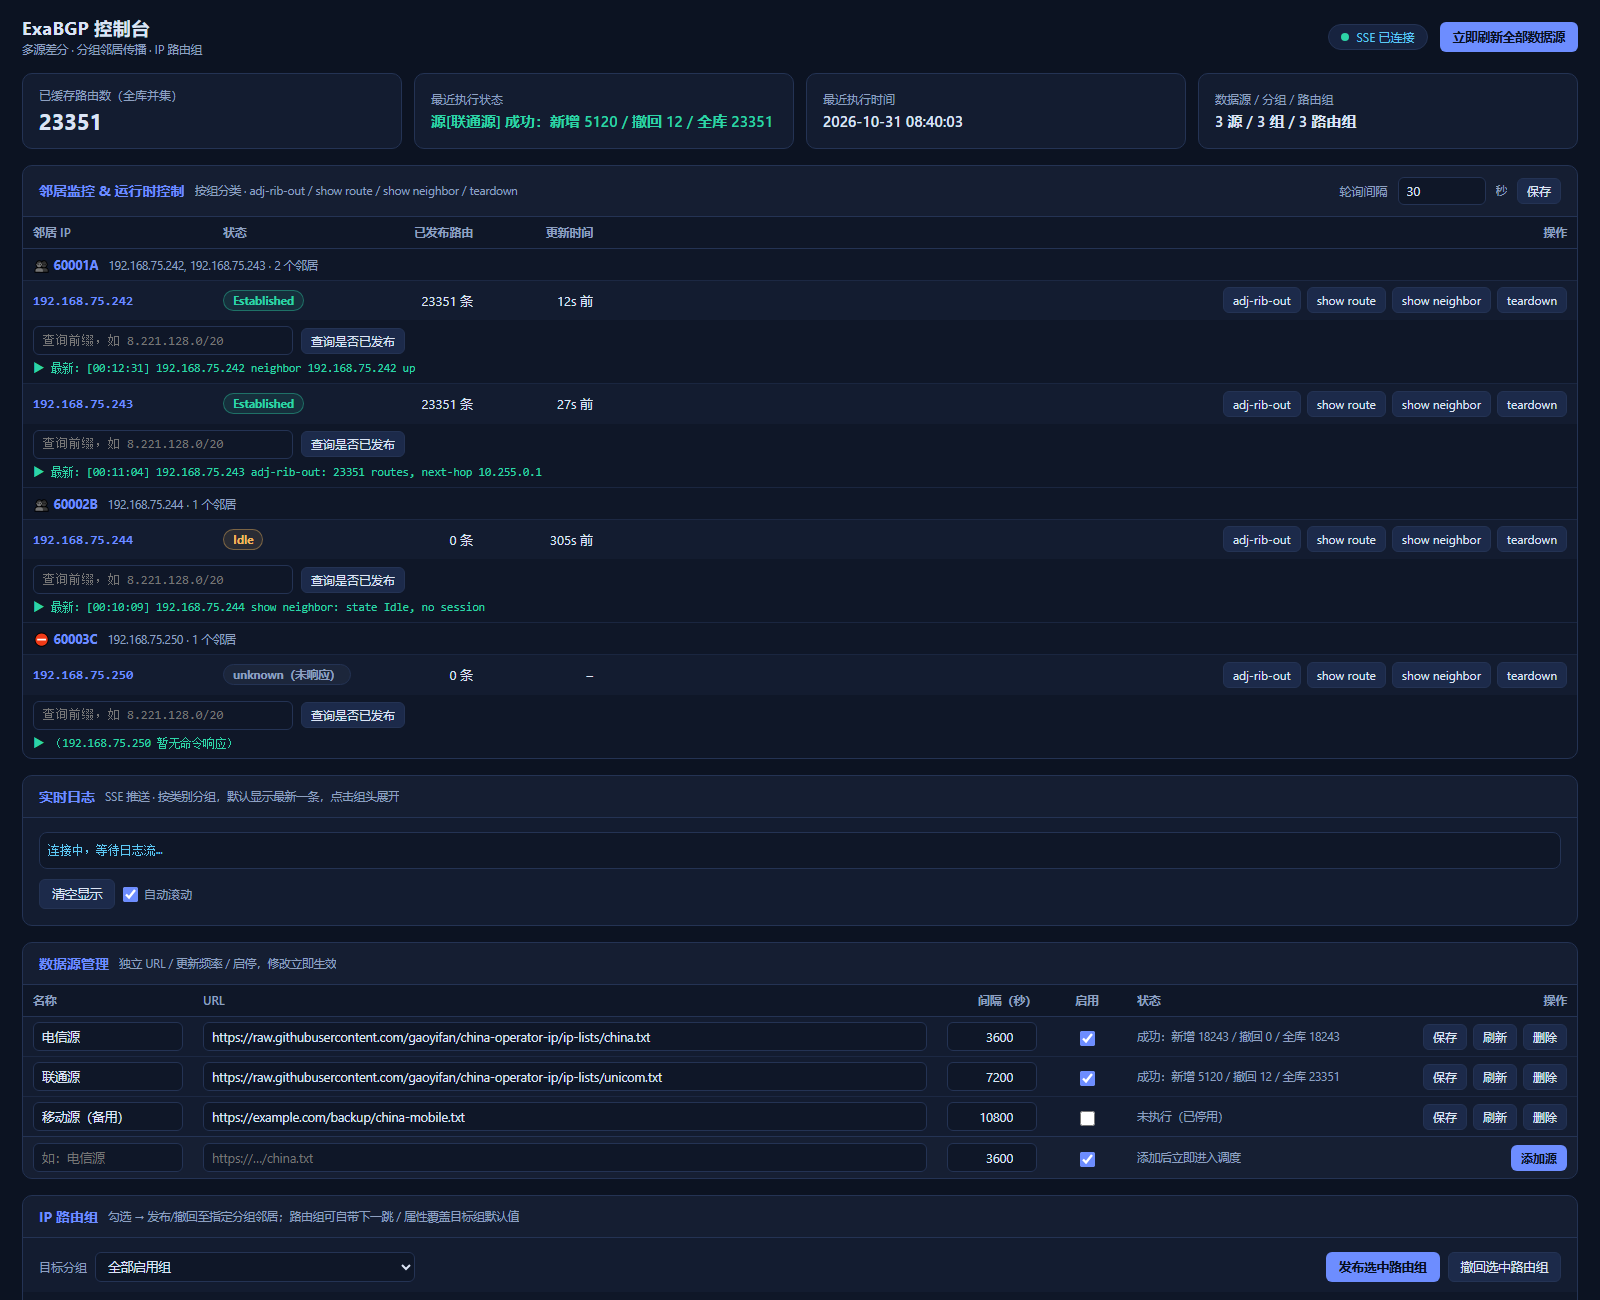
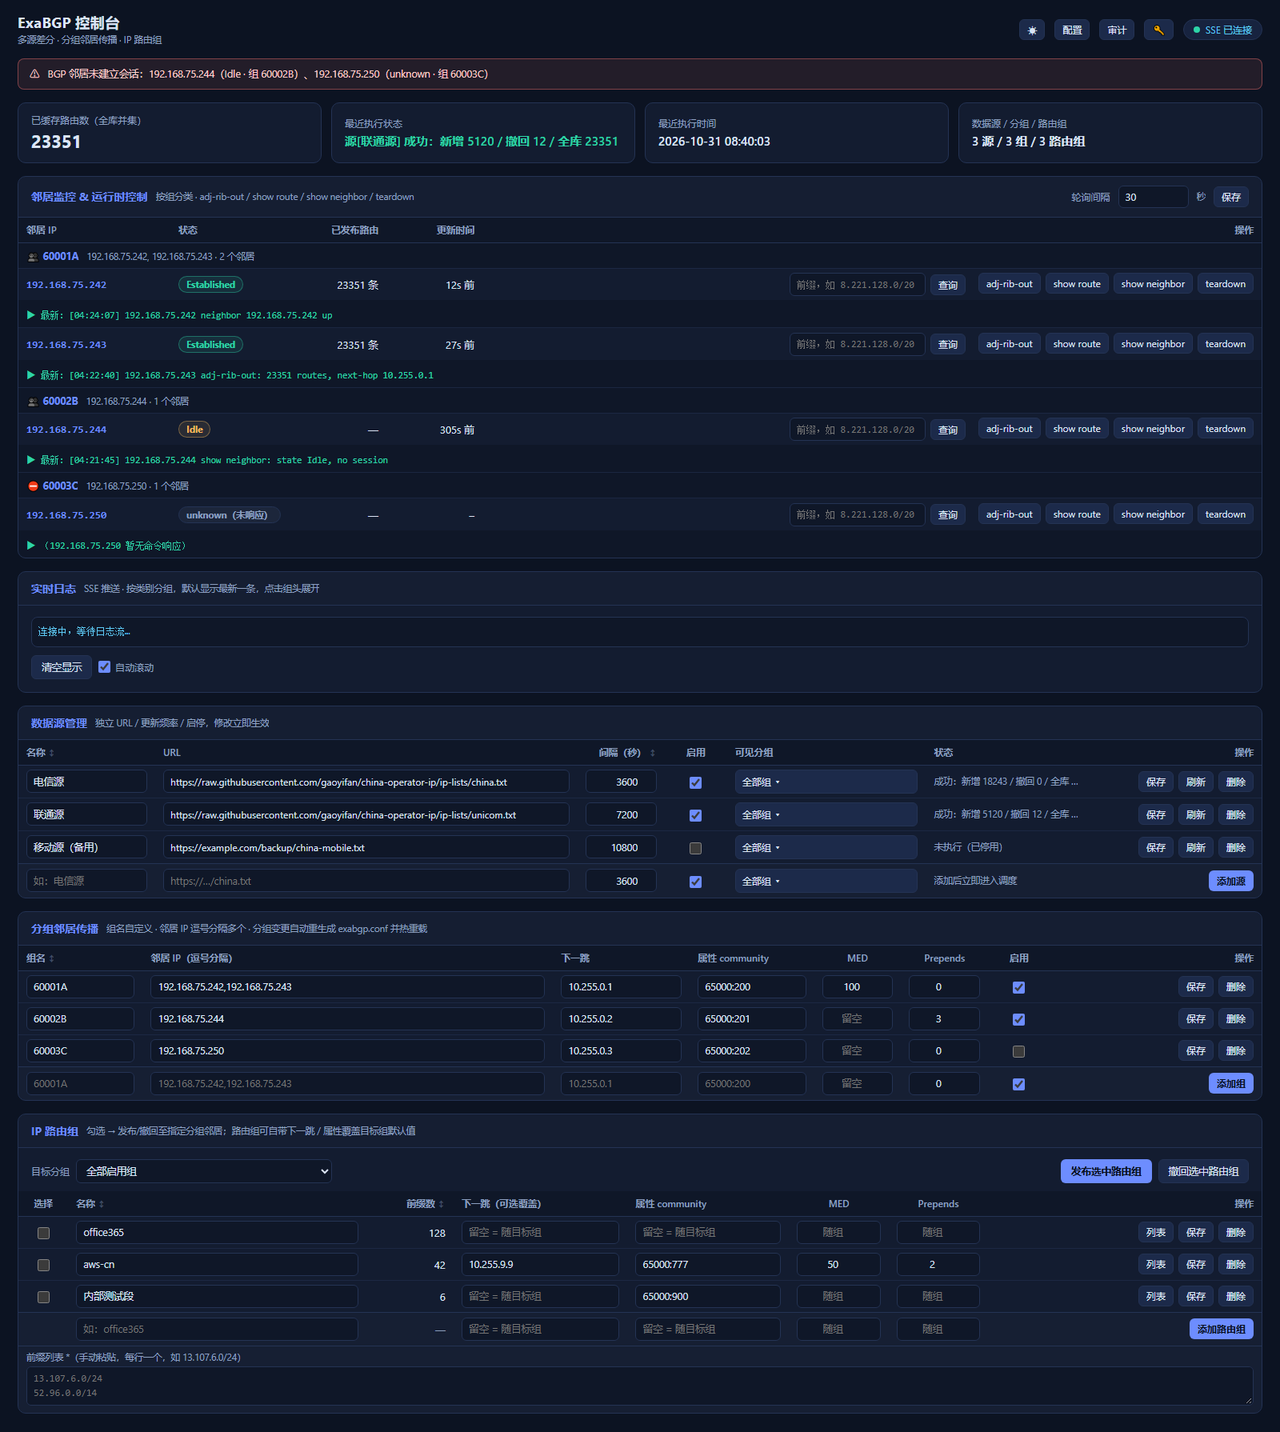
docs: README 换成最新界面截图，特性表按现状重写
- 新增深色/浅色两张全页截图（1280 宽，含全部面板）
- 特性表去掉已删除的全局搜索/手动发布/参数快照，补上审计/演练/预检/主题/IPS/源分组绑定
- changelog 补 v6.3.0（原生安装）与 v6.3.1（文档）

diff --git a/README.md b/README.md
@@ -27,17 +27,17 @@
 
 | 能力 | 说明 |
 |---|---|
-| **多数据源** | 每个源独立 URL、独立更新频率（10s~86400s）、独立启停；各自维护路由集合与磁盘快照，重启自愈 |
+| **多数据源** | 每个源独立 URL、更新频率（默认 1 小时）、启停、**可见分组**；各自维护路由集合与磁盘快照，重启自愈 |
 | **增量差分** | 首次全量、之后按集合差只发变化；撤回前检查其他源是否仍覆盖，避免误撤 |
 | **分组传播** | 一个"分组"= 一组邻居 IP + 下一跳 + 属性，可逐组覆盖 `local-as / peer-as / local-address / router-id` |
 | **IP 路由组** | 手工粘贴或从 URL 导入前缀集合，勾选后批量发布/撤回，可整体覆盖下一跳/属性 |
 | **选路属性** | `community`、`MED`、`AS-PATH prepend`（按组或路由组覆盖），详见 [选路属性指南](docs/routing-attributes.md) |
 | **配置热重载** | 分组变更 → 重新渲染 `exabgp.conf` → 通过 API `reload` 热加载，**不断邻居会话** |
-| **可视化控制台** | 邻居状态、adj-rib-out 查询、实时日志（SSE）、数据源/路由组/分组在线增删改、手动发布 |
-| **操作护栏** | 危险操作二次确认 + 影响预览（将撤回/重播多少条）、按钮防重复提交、失败 toast 提示 |
-| **状态可见** | 顶部异常横幅（SSE 断开 / 源抓取失败 / 邻居未建立）、表头排序 |
-| **可控可追溯** | 操作审计（JSONL）、下发预演 dry-run、前缀预检、CSV 导出、`/metrics` 指标、可选 Token 鉴权与只读角色、告警 webhook |
-| **可观测** | 命令回显（`show adj-rib out` 等）、按前缀查询"是否已发布"、运行时参数快照、按天滚动日志 |
+| **可视化控制台** | 邻居状态 + 逐邻居命令、前缀查询、分类实时日志（SSE，含下发记录）、数据源/分组/路由组在线增删改、**深色/浅色主题** |
+| **操作护栏** | 危险操作二次确认 + 影响预览、**下发预演 dry-run**、**前缀预检**、按钮防重复提交、失败 toast |
+| **状态可见** | 顶部异常横幅（SSE 断开 / 源抓取失败 / 邻居未建立，含所属分组） |
+| **可控可追溯** | 操作审计（JSONL + 面板 + CSV）、配置漂移检测、`/metrics` 指标、可选 Token 鉴权与只读角色、告警 webhook |
+| **IPS 黑名单** | 数据源可绑定分组（隔离黑洞路由）、固定 `192.0.2.1` / `65535:666`、纯 IP 自动补 `/32`，详见 [RTBH 章节](docs/routing-attributes.md#7-ips-黑名单rtbh-黑洞路由) |
 
 ## 架构
 
@@ -78,7 +78,14 @@ flowchart LR
 
 ![控制台](docs/images/console.png)
 
-KPI 概览 · 邻居监控（含逐邻居命令与回显）· 实时日志 · 数据源 · IP 路由组 · 分组传播 · 手动发布 · 运行时参数快照。
+KPI 概览 · 邻居监控（前缀查询与逐邻居命令同一行）· 分类实时日志（含下发记录）· 数据源（可见分组）· 分组邻居传播 · IP 路由组（勾选批量发布/撤回）
+
+<details>
+<summary>浅色主题</summary>
+
+![浅色主题](docs/images/console-light.png)
+
+</details>
 
 ## 快速开始
 

diff --git a/docs/changelog.md b/docs/changelog.md
@@ -1,5 +1,19 @@
 # 版本演进
 
+## v6.3.1（2026-11-08）— 文档与截图
+
+- README 更新为当前界面截图（深色 / 浅色双版本）
+- 特性表按实际能力重写：移除已删除的「全局搜索 / 手动发布 / 运行时参数快照」，补上审计 / 演练 / 预检 / 主题 / IPS 黑名单 / 源分组绑定
+- 控制台面板顺序与文案对齐
+
+## v6.3.0（2026-11-08）— 原生安装
+
+- **不再局限于 Docker**：`packaging/linux` 提供 install/uninstall/run/systemd 单元与打包脚本
+- 一条命令装成系统服务：装依赖 → venv(exabgp+tornado) → 写 `/etc/exabgp-injector/env` → systemd
+- 检测到已有 ExaBGP 进程/容器时只安装不启动，避免抢同一 BGP 会话
+- `http_api.py` 路径支持环境变量覆盖：`DATA_DIR` / `RUN_DIR` / `CONFIG_FILE` / `CONF_FILE`
+- 列表分页、快照面板移除、日志文案精简、下发记录并入分类日志、前缀查询并入操作行等界面调整
+
 ## v6.2.0（2026-11-08）— 运维化
 
 **定位**：从"能注路由"变成"敢给运维用"——每一次改动都有护栏、有留痕、有预演。
